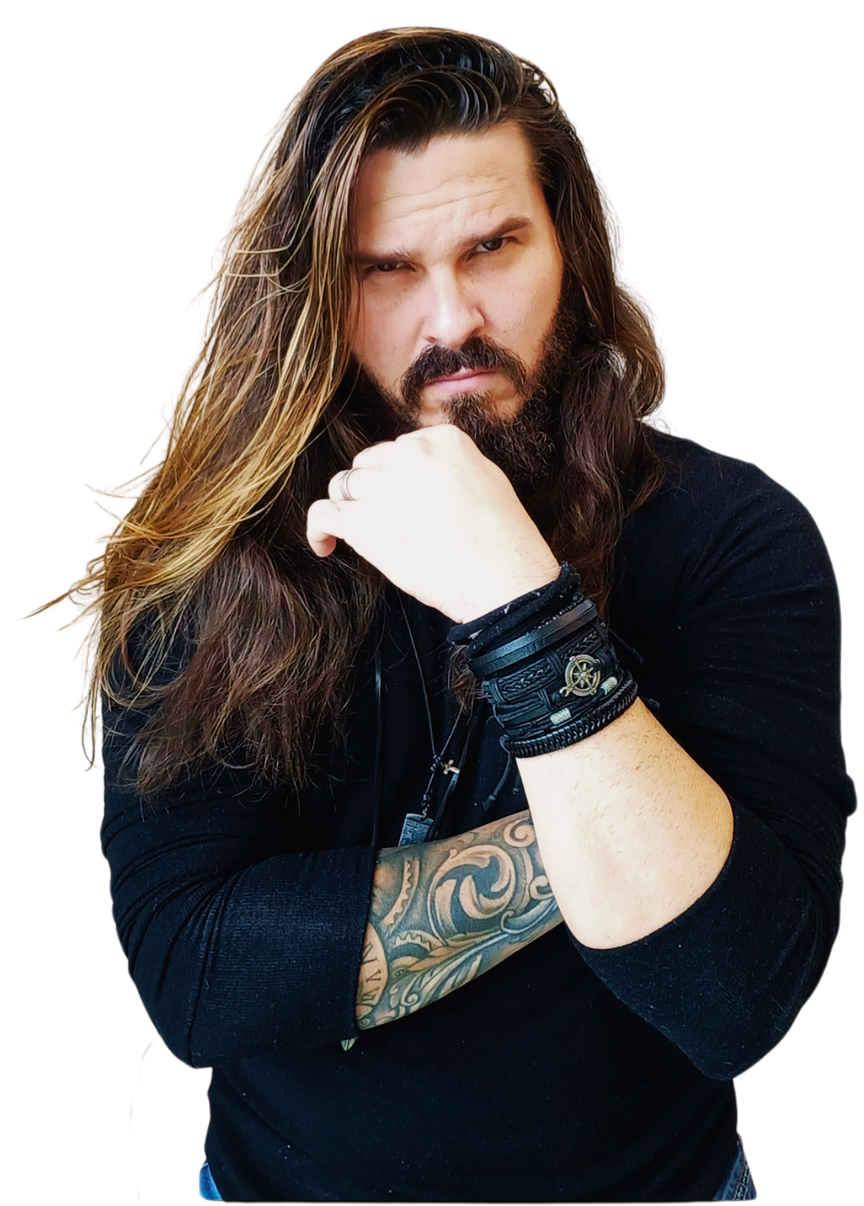
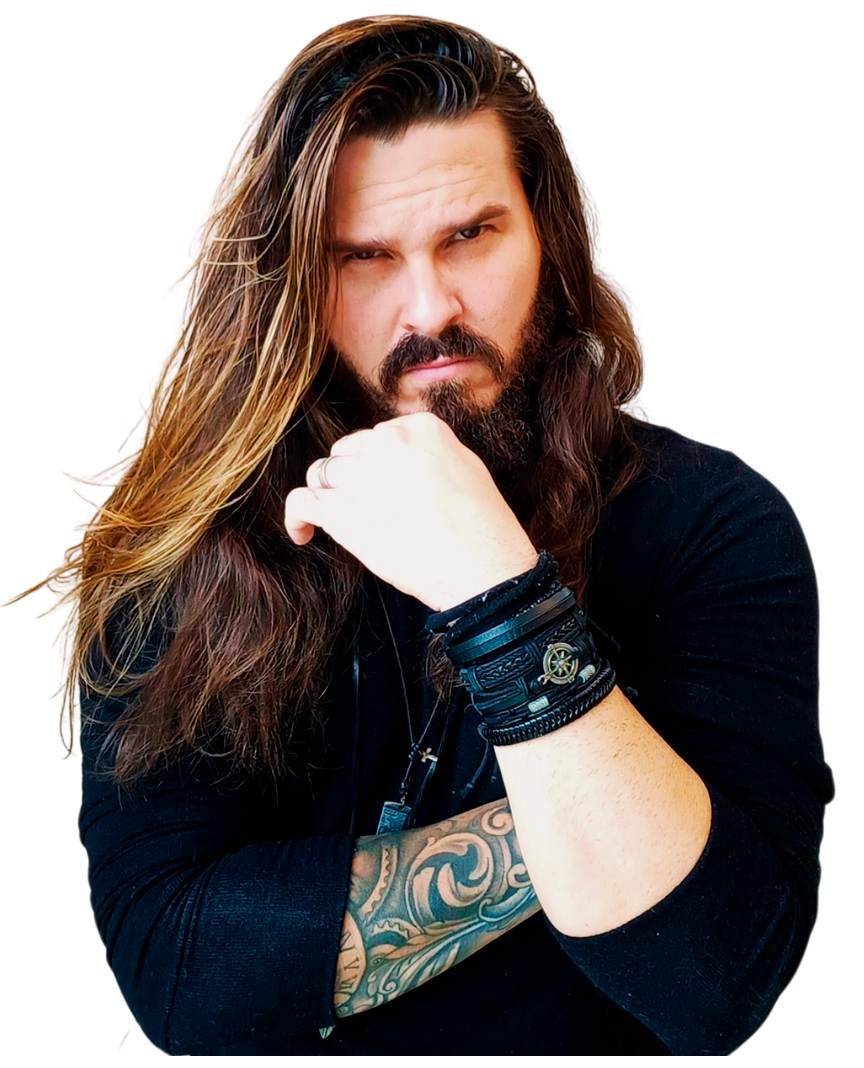
feature: Cortando tamanho da imagem do autor e corrigindo bug ao abrir depoimentos no celular

diff --git a/index.html b/index.html
@@ -168,7 +168,7 @@
             </header>
             <img class="img-leao" src="assets/leao.svg">
             <section class="py-1" id="autor">
-                <div class="container-md px-5">
+                <div class="container-md">
                     <div class="row justify-content-center">
                         <div class="col-md-4 col-sm-12">
                             <div class="text-center my-5">
@@ -192,7 +192,7 @@
                 </div>
             </section>
             <section class="py-5" id="livro">
-                <div class="container-md px-5">
+                <div class="container-md">
                     <div class="row gx-5 justify-content-center">
                         <div class="col-md-12">
                             <div class="card rounded-4 mb-5 bg-custom">
@@ -243,7 +243,7 @@
                 </div>
             </section>
             <section class="py-5" id="depoimentos">
-                <div class="container-md px-5">
+                <div class="container-md">
                     <div class="row gx-5 justify-content-center">
                         <div class="text-center my-5">
                             <h2 class="display-5 fw-bolder"><span class="text-gradient d-inline">Depoimentos</span></h2>
@@ -251,7 +251,7 @@
                         <div class="col-xxl-6">
                             <div class="card rounded-4 mb-5 bg-custom">
                                 <div class="card-body p-0">
-                                    <div class="d-flex align-items-center">
+                                    <div class="d-flex align-items-center card-content">
                                         <img class="img-fluid" src="assets/depoimento1.png" alt="..." />
                                         <div class="p-5">
                                             <h2 class="fw-bolder text-green">Thomaz David</h2>
@@ -262,12 +262,12 @@
                             </div>
                             <div class="card rounded-4 mb-5 bg-custom">
                                 <div class="card-body p-0">
-                                    <div class="d-flex align-items-center">
+                                    <div class="d-flex align-items-center card-content">
+                                        <img class="img-fluid" src="assets/depoimento2.png" alt="..." />
                                         <div class="p-5">
                                             <h2 class="fw-bolder text-green">Maciel Gomes</h2>
                                             <p>"Abriu meus olhos pra tudo o que eu estava errando."</p>
                                         </div>
-                                        <img class="img-fluid" src="assets/depoimento2.png" alt="..." />
                                     </div>
                                 </div>
                             </div>
@@ -276,7 +276,7 @@
                         <div class="col-xxl-6">
                             <div class="card rounded-4 mb-5 bg-custom">
                                 <div class="card-body p-0">
-                                    <div class="d-flex align-items-center">
+                                    <div class="d-flex align-items-center card-content">
                                         <img class="img-fluid" src="assets/depoimento3.png" alt="..." />
                                         <div class="p-5">
                                             <h2 class="fw-bolder text-green">Paulo Junior</h2>
@@ -287,12 +287,12 @@
                             </div>
                             <div class="card rounded-4 mb-5 bg-custom">
                                 <div class="card-body p-0">
-                                    <div class="d-flex align-items-center">
+                                    <div class="d-flex align-items-center card-content">
+                                        <img class="img-fluid" src="assets/depoimento4.png" alt="..." />
                                         <div class="p-5">
                                             <h2 class="fw-bolder text-green">Sheldon Maciel</h2>
                                             <p>"Recomendo demais pra quem tá buscando aí se tornar um homem melhor."</p>
                                         </div>
-                                        <img class="img-fluid" src="assets/depoimento4.png" alt="..." />
                                     </div>
                                 </div>
                             </div>

diff --git a/css/styles.css b/css/styles.css
@@ -21,6 +21,13 @@ body::-webkit-scrollbar-thumb {
   }
 }
 
+
+@media (max-width: 530px) {
+  .card-content {
+    flex-direction: column;
+  }
+}
+
 .navbar-toggler {
   background-color: rgba(200, 145, 22, 1.000000) !important;
 }
@@ -40,7 +47,7 @@ body::-webkit-scrollbar-thumb {
   top: 10%;
   left: 4%;
   transform: rotateY(180deg);
-  opacity: 10%;
+  opacity: 7%;
   z-index: -1;
 }
 
